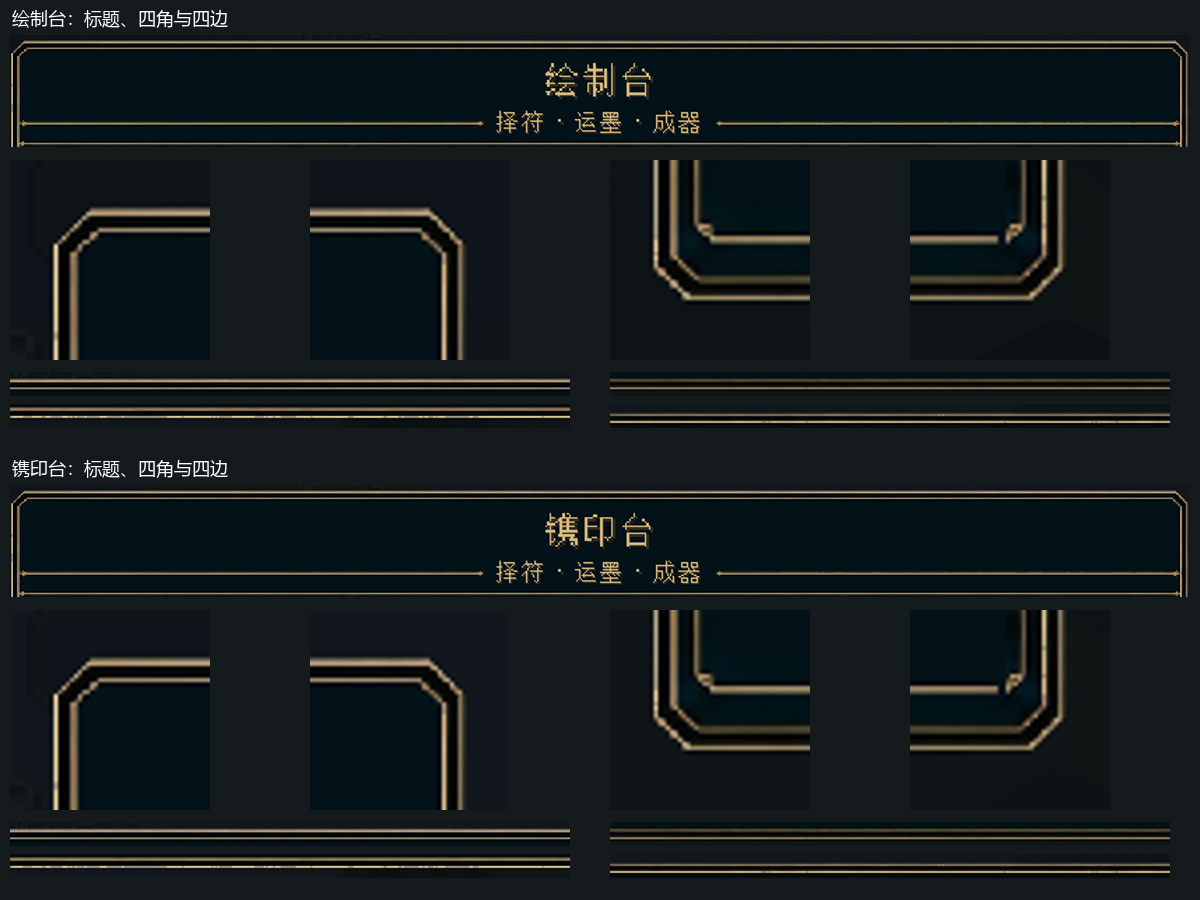
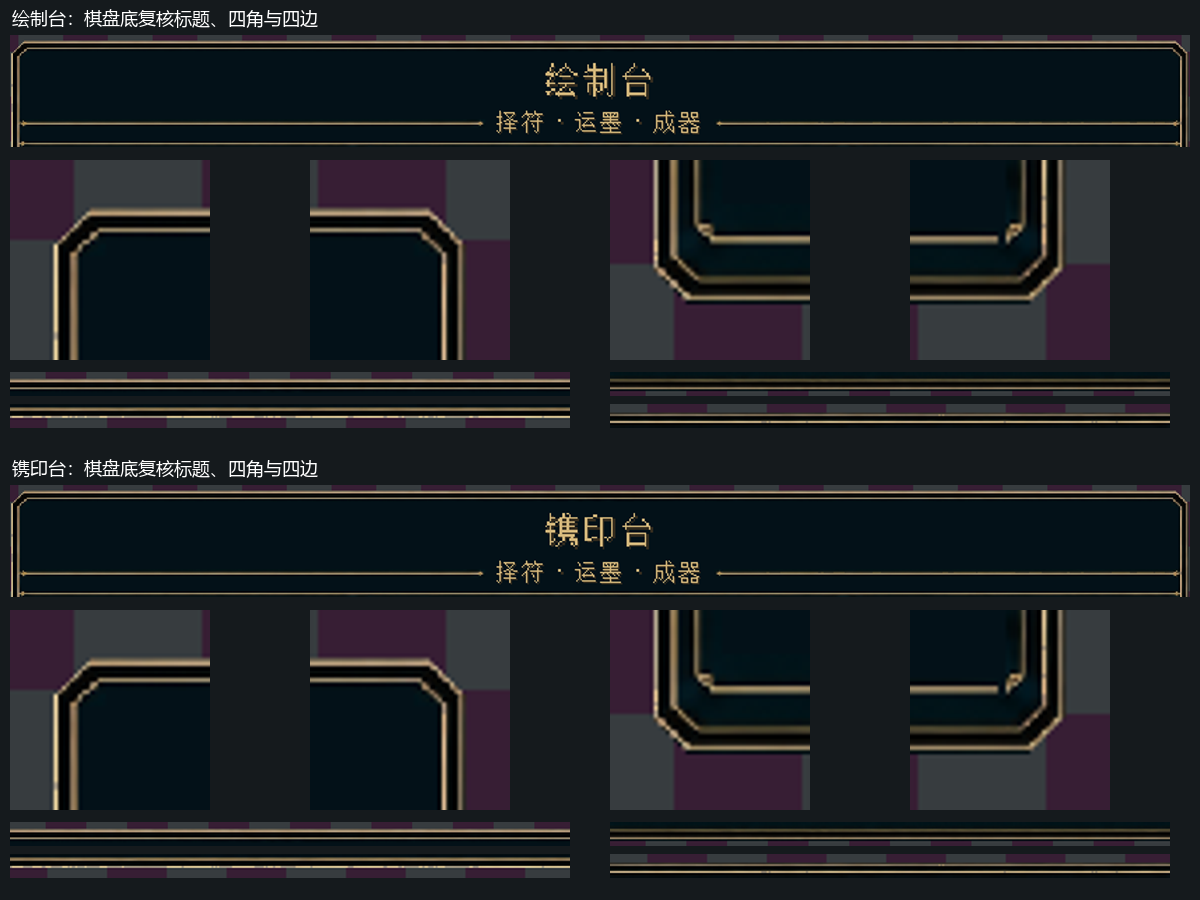
Verify talisman frame boundaries against checker backgrounds and trim review previews

diff --git a/docs/integration/TALISMAN_FRAME_FIX_20261027.md b/docs/integration/TALISMAN_FRAME_FIX_20261027.md
@@ -9,7 +9,7 @@
 ## 验证
 
 - `./gradlew.bat verifyFull --rerun-tasks --offline --no-daemon`：28 项任务执行，351 项必需 GameTests 全部通过。最终标题栏绘制调整后再次执行正式 build，通过资源校验与打包。
-- `./gradlew.bat runClient -PmyriadCapture -PtalismanCapture -PmyriadCaptureOutput=<绝对输出目录> --offline --no-daemon`：无 JEI 的 14 个实机状态通过；加 `-PjeiCapture` 后再次通过相同 14 个状态。
+- `./gradlew.bat runClient -PmyriadCapture -PtalismanCapture -PmyriadCaptureOutput=<绝对输出目录> --offline --no-daemon`：无 JEI 的 16 个实机状态通过；加 `-PjeiCapture` 后再次通过相同 16 个状态。
 - 两个界面分别覆盖普通、悬停、禁用、焦点、搜索输入及 GUI 缩放 2/3/4。标题、四角、四边放大逐项复核；鼠标捕获违规均为 0。
 - 完整服务端测试使用仓库原有 FlightNurtureGameTests；原有本地专用测试修改已独立备份，未加入本次提交。
 - 正式 JAR 扫描未包含 QA、GameTests 或鼠标保护类，安装脚本已核对目标实例哈希。磁盘安装不代表运行中的 JVM 已加载更新。
@@ -19,3 +19,9 @@
 [两窗实机预览](evidence/talisman-frame-20261027/preview.png) · [标题及外框逐项裁图](evidence/talisman-frame-20261027/edges-and-titles.png) · [无 JEI 结果](evidence/talisman-frame-20261027/no-jei.json) · [有 JEI 结果](evidence/talisman-frame-20261027/jei.json)
 
 以上为本次局部界面验收，项目仍是开发进度快照。
+
+## 框外留边复查
+
+补充白色/粉色棋盘底的独立实机验收，消除暗色游戏场景对边界判断的干扰。两窗在有 JEI、无 JEI 下，分别检查框外 24,266 个像素（外框抗锯齿保留 2 屏幕像素容差），均未改变棋盘背景像素。原双窗预览误将框外游戏画面裁进了拼图；现仅对评审预览按外框轮廓加透明底，正式 UI 仍使用真实裁剪绘制，不依赖预览遮罩。
+
+[绘制台高对比实机原图](evidence/talisman-frame-20261027/draw-bright-edge.png) · [镌印台高对比实机原图](evidence/talisman-frame-20261027/engrave-bright-edge.png) · [框外像素验证](evidence/talisman-frame-20261027/edge-pixel-result.json)
